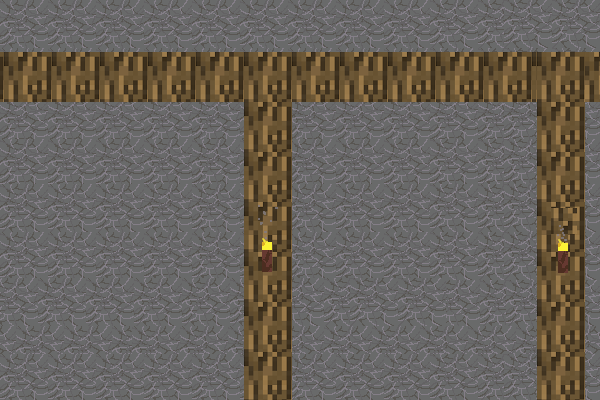
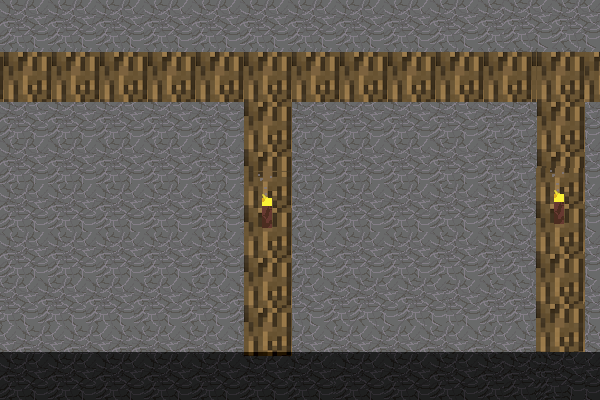
Added a few files so scrolling works in the cave world. Removed unused assets and the Torso, Head, Legs and Mob files.

Changed region(s): [[0.0, 0.42, 1.0, 1.0]]

diff --git a/ScrollingBackground.java b/ScrollingBackground.java
@@ -1,0 +1,25 @@
+import greenfoot.*;  // (World, Actor, GreenfootImage, Greenfoot and MouseInfo)
+
+/**
+ * Write a description of class Floor here.
+ * 
+ * @author (your name) 
+ * @version (a version number or a date)
+ */
+public class ScrollingBackground extends Actor
+{
+    /**
+     * Act - do whatever the Floor wants to do. This method is called whenever
+     * the 'Act' or 'Run' button gets pressed in the environment.
+     */
+    public void act()
+    {
+        if(Greenfoot.isKeyDown("RIGHT") || Greenfoot.isKeyDown("D")) {
+            move(-3);
+        }
+        
+        if(Greenfoot.isKeyDown("LEFT") || Greenfoot.isKeyDown("A")) {
+            move(3);
+        }
+    }
+}

diff --git a/CaveWorld.java b/CaveWorld.java
@@ -17,5 +17,20 @@ public class CaveWorld extends World
     {    
         // Create a new world with 600x400 cells with a cell size of 1x1 pixels.
         super(600, 400, 1); 
+        
+        CobbleAmount cobA = new CobbleAmount();
+        
+        Floor floor = new Floor();
+        
+        this.addObject(floor, 300, 352);
+        
+        ScrollingBackground bg = new ScrollingBackground();
+        
+        this.addObject(bg, 600, 176);
+        
+        Character steve = new Character(cobA);
+        
+        this.addObject(steve, 100, 300);
+        
     }
 }

diff --git a/Character.java b/Character.java
@@ -33,7 +33,7 @@ public class Character extends Actor
         }
         
         if(!this.isTouching(Floor.class)) {
-            this.setLocation(this.getX(), this.getY()+4);
+            this.setLocation(this.getX(), this.getY()+5);
         }
         
         if(Greenfoot.isKeyDown("SPACE")) {

diff --git a/MyWorld.java b/MyWorld.java
@@ -32,7 +32,7 @@ public class MyWorld extends World
         
         Floor floor = new Floor();
         
-        this.addObject(floor, 300, 340);
+        this.addObject(floor, 300, 270);
 
         LavaGen lg = new LavaGen();
 
